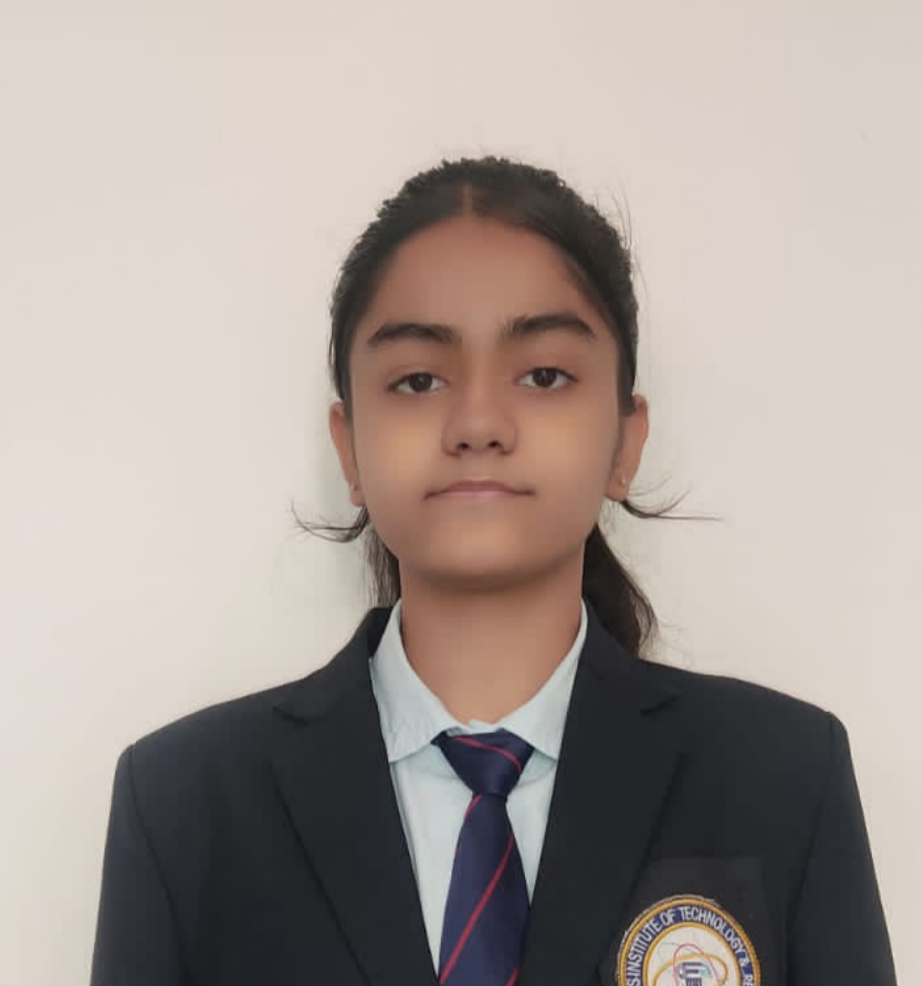
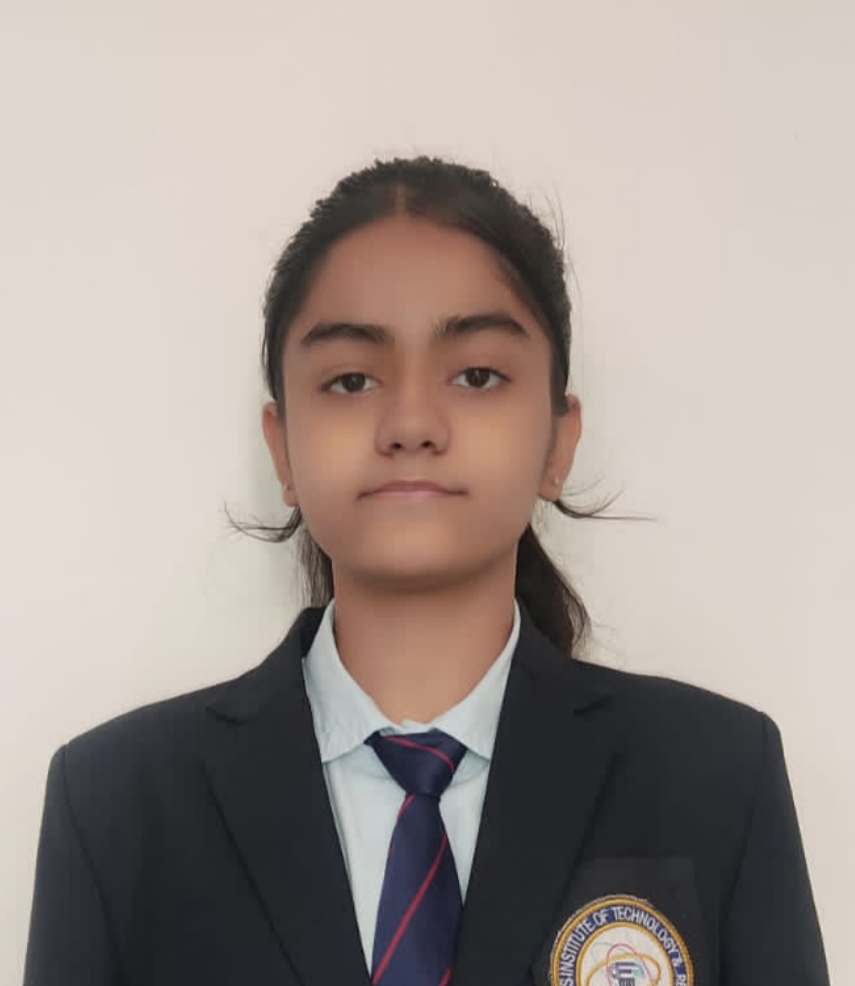
changes to frontend

diff --git a/Client/src/Pages/About.jsx b/Client/src/Pages/About.jsx
@@ -140,7 +140,7 @@ const About = () => {
           </p>
 
 {/* ---------------------features grid---------------------------- */}
-          <div className="bg-[#f3f5ff] w-full px-6 space-x-5">
+          <div className="bg-[#f3f5ff] w-full px-16">
           <h2
             ref={text2Ref}
             className="text-center text-4xl font-semibold text-gray-800 mb-12"
@@ -151,7 +151,7 @@ const About = () => {
             {features.map((feature, index) => (
               <div
                 key={index}
-                className="rounded-xl shadow-lg p-6 sm:p-8 bg-[#f3f5ff] border-white border-2 place-items-center hover:scale-105 ease-in-out duration-300"
+                className="rounded-xl shadow-lg py-12 sm:p-8 bg-[#f3f5ff] border-white border-2 place-items-center hover:scale-105 ease-in-out duration-300"
               >
                 <div className="mb-4">{feature.icon}</div>
                 <h3 className="text-xl font-semibold text-[#8667f2]">
@@ -169,7 +169,7 @@ const About = () => {
 
 {/* --------------------team intro-------------------------- */}
 
-          <h1 className="text-3xl font-semibold text-nowrap mt-5">
+          <h1 className="text-3xl font-semibold text-nowrap mt-5 gap-x-5">
             <span
               ref={text3Ref}
               className="bg-gradient-to-r from-purple-500 to-cyan-400 bg-clip-text text-transparent mb-6"
@@ -179,12 +179,12 @@ const About = () => {
             <span> 💡</span>
           </h1>
 
-          <div className="grid grid-cols-1 md:grid-cols-2 lg:grid-cols-4 gap-y-8 gap-x-4">
+          <div className="grid grid-cols-1 md:grid-cols-2 lg:grid-cols-4 gap-y-8 gap-x-12">
             <div
               ref={mem1Ref}
-              className="shadow-lg rounded-2xl items-center p-5"
+              className="shadow-lg rounded-2xl items-center p-7 min-w-52 md:min-w-88" 
             >
-              <div className="h-32 w-32 rounded-full grid place-items-center mx-auto overflow-hidden my-3">
+              <div className="h-40 w-40 rounded-full grid place-items-center mx-auto overflow-hidden my-3 hover:scale-105">
                 <img src={p1} alt="why not showing" />
               </div>
               <h3 className="text-xl font-semibold text-[#8667f2]">Anish</h3>
@@ -192,9 +192,9 @@ const About = () => {
             </div>
             <div
               ref={mem2Ref}
-              className="shadow-lg rounded-2xl items-center p-5"
+              className="shadow-lg rounded-2xl items-center p-7 min-w-52 md:min-w-88"
             >
-              <div className="h-32 w-32 rounded-full grid place-items-center mx-auto overflow-hidden my-3">
+              <div className="h-40 w-40 rounded-full grid place-items-center mx-auto overflow-hidden my-3 hover:scale-105">
                 <img src={p2} alt="why not showing" />
               </div>
               <h3 className="text-xl font-semibold text-[#8667f2]">Ankush</h3>
@@ -202,9 +202,9 @@ const About = () => {
             </div>
             <div
               ref={mem3Ref}
-              className="shadow-lg rounded-2xl items-center p-5"
+              className="shadow-lg rounded-2xl items-center p-7 min-w-52 md:min-w-88"
             >
-              <div className="h-32 w-32 rounded-full grid place-items-center mx-auto overflow-hidden my-3">
+              <div className="h-40 w-40 rounded-full grid place-items-center mx-auto overflow-hidden my-3 hover:scale-105">
                 <img src={p3} alt="why not showing" />
               </div>
               <h3 className="text-xl font-semibold text-[#8667f2]">Ishita</h3>
@@ -212,9 +212,9 @@ const About = () => {
             </div>
             <div
               ref={mem4Ref}
-              className="shadow-lg rounded-2xl items-center p-5"
+              className="shadow-lg rounded-2xl items-center p-7 min-w-52 md:min-w-88"
             >
-              <div className="h-32 w-32 rounded-full grid place-items-center mx-auto overflow-hidden my-3">
+              <div className="h-40 w-40 rounded-full grid place-items-center mx-auto overflow-hidden my-3 hover:scale-105">
                 <img src={p4} alt="why not showing" />
               </div>
               <h3 className="text-xl font-semibold text-[#8667f2]">Shruti</h3>
@@ -232,13 +232,13 @@ const About = () => {
                 backgroundColor: "#8667f2",
                 "&:hover": { backgroundColor: "#6a52c7" },
               }}
-              className="bg-gradient-to-r from-purple-600 to-[#8667f2] hover:from-purple-700 hover:to-[#764de8]"
+              className="bg-gradient-to-r from-purple-600 to-[#8667f2] hover:from-purple-700 hover:to-[#764de8] p-3 text-lg font-light rounded-xl hover:scale-100"
             >
               Get Started
             </Button>
           </div>
 {/* -----------------gradient------------------------- */}
-          <div className="flex flex-col min-h-screen min-w-full items-center justify-center text-center bg-[linear-gradient(to_bottom,_#f3f5ff_1%,_transparent_40%),radial-gradient(circle_at_center,_#a2f8d3,_#c7ade2,_#a4d8fd)] -mb-24">
+          <div className="flex flex-col min-h-screen min-w-full items-center justify-center text-center bg-[linear-gradient(to_bottom,_#f3f5ff_1%,_transparent_30%),radial-gradient(circle_at_center,_#a2f8d3,_#c7ade2,_#a4d8fd)] -mb-24">
             <h1 className="text-5xl md:text-6xl font-bold text-black">
               Try MockNinja for free.
             </h1>
